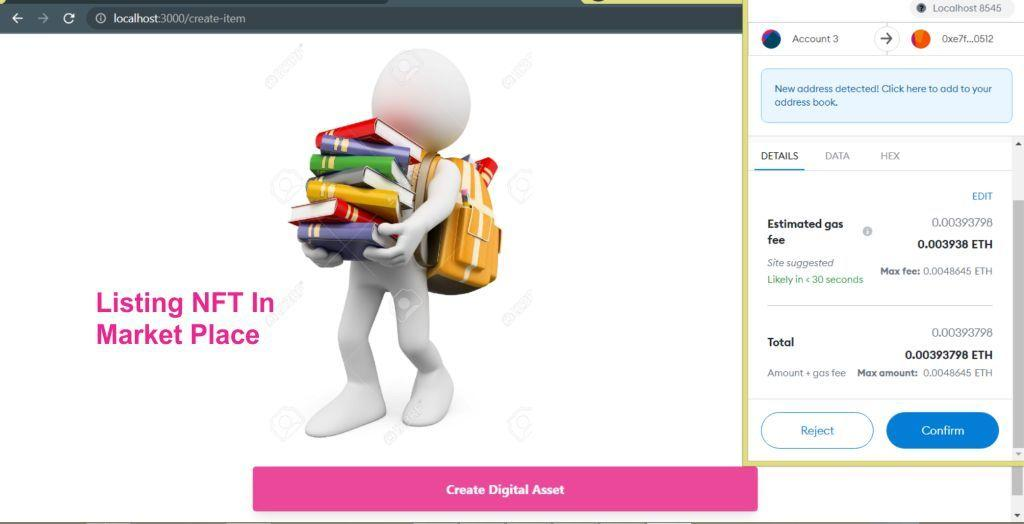
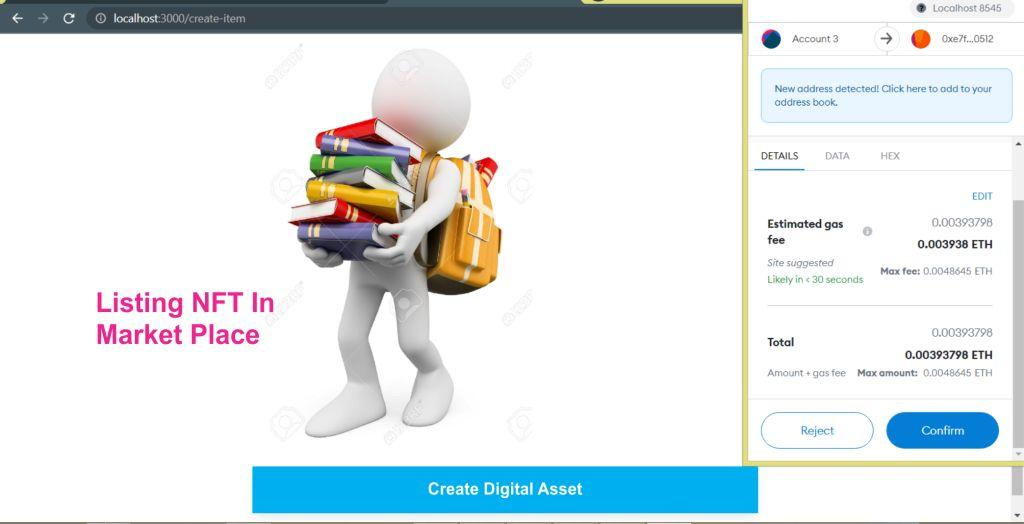
screenshots uddated

Changed region(s): [[0.2188, 0.8855, 0.75, 1.0]]

diff --git a/pages/index.js b/pages/index.js
@@ -25,7 +25,7 @@ export default function Home() {
   
   async function loadNFTs() {  
     
-    const provider = new ethers.providers.JsonRpcProvider()
+    const provider = new ethers.providers.JsonRpcProvider('https://polygon-mumbai.infura.io/v3/bad08557efa143cda112c2ef956cd6d5')
     const tokenContract = new ethers.Contract(nftaddress, NFT.abi, provider)
     const marketContract = new ethers.Contract(nftmarketaddress, Market.abi, provider)
     const data = await marketContract.fetchMarketItems()
@@ -78,8 +78,8 @@ export default function Home() {
                   </div>
                 </div>
                 <div className="p-4 bg-black">
-                  <p className="text-2xl mb-4 font-bold text-white">{nft.price} Eth</p>
-                  <button className="w-full bg-pink-500 text-white font-bold py-2 px-12 rounded" onClick={() => buyNft(nft)}>Buy</button>
+                  <p className="text-2xl mb-4 font-bold text-white">{nft.price} Matic</p>
+                  <button className="w-full bg-blue-500 text-white font-bold py-2 px-12 rounded" onClick={() => buyNft(nft)}>Buy</button>
                 </div>
               </div>
             ))

diff --git a/pages/creator-dashboard.js b/pages/creator-dashboard.js
@@ -61,7 +61,7 @@ export default function CreatorDashboard() {
               <div key={i} className="border shadow rounded-xl overflow-hidden">
                 <img src={nft.image} className="rounded" />
                 <div className="p-4 bg-black">
-                  <p className="text-2xl font-bold text-white">Price - {nft.price} Eth</p>
+                  <p className="text-2xl font-bold text-white">Price - {nft.price} Matic</p>
                 </div>
               </div>
             ))
@@ -79,7 +79,7 @@ export default function CreatorDashboard() {
                     <div key={i} className="border shadow rounded-xl overflow-hidden">
                       <img src={nft.image} className="rounded" />
                       <div className="p-4 bg-black">
-                        <p className="text-2xl font-bold text-white">Price - {nft.price} Eth</p>
+                        <p className="text-2xl font-bold text-white">Price - {nft.price} Matic</p>
                       </div>
                     </div>
                   ))

diff --git a/pages/_app.js b/pages/_app.js
@@ -8,22 +8,22 @@ function Marketplace({ Component, pageProps }) {
         <p className="text-4xl font-bold">Christotle NFT Marketplace</p>
         <div className="flex mt-4">
           <Link href="/">
-            <a className="mr-4 text-pink-500">
+            <a className="mr-4 text-blue-500">
               NFTs Market
             </a>
           </Link>
           <Link href="/create-item">
-            <a className="mr-6 text-pink-500">
+            <a className="mr-6 text-blue-500">
               Sell NFTs
             </a>
           </Link>
           <Link href="/my-assets">
-            <a className="mr-6 text-pink-500">
+            <a className="mr-6 text-blue-500">
               My NFTs
             </a>
           </Link>
           <Link href="/creator-dashboard">
-            <a className="mr-6 text-pink-500">
+            <a className="mr-6 text-blue-500">
               My Dashboard
             </a>
           </Link>

diff --git a/pages/my-assets.js b/pages/my-assets.js
@@ -55,7 +55,7 @@ export default function MyAssets() {
               <div key={i} className="border shadow rounded-xl overflow-hidden">
                 <img src={nft.image} className="rounded" />
                 <div className="p-4 bg-black">
-                  <p className="text-2xl font-bold text-white">Price - {nft.price} Eth</p>
+                  <p className="text-2xl font-bold text-white">Price - {nft.price} Matic</p>
                 </div>
               </div>
             ))

diff --git a/pages/create-item.js b/pages/create-item.js
@@ -105,7 +105,7 @@ export default function CreateItem() {
             <img className="rounded mt-4" width="350" src={fileUrl} />
           )
         }
-        <button onClick={createMarket} className="font-bold mt-4 bg-pink-500 text-white rounded p-4 shadow-lg">
+        <button onClick={createMarket} className="font-bold mt-4 bg-blue-500 text-white rounded p-4 shadow-lg">
           Create Digital Asset
         </button>
       </div>
